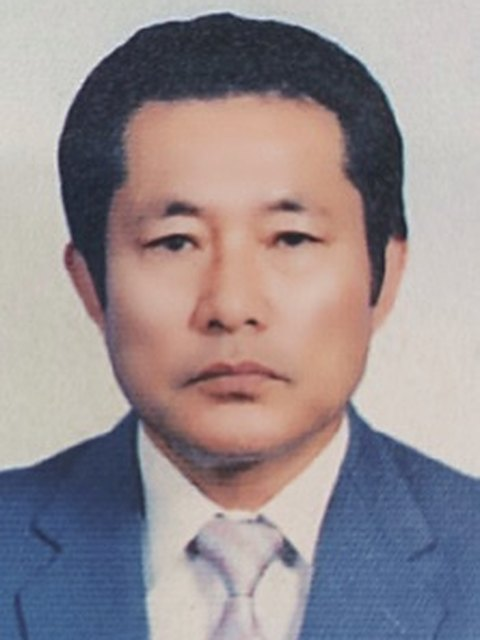
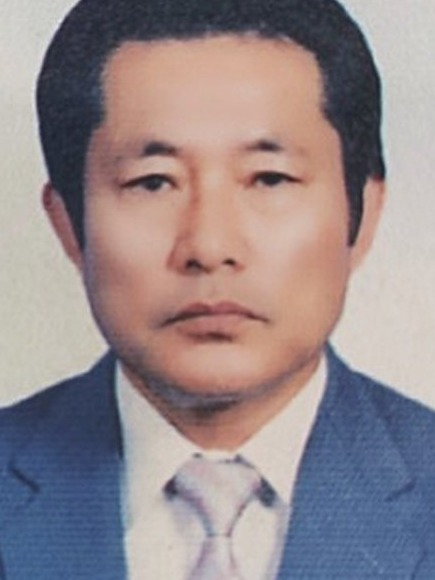
1st-hgkim-01 프로필 사진 크롭 + 프레임 180px 확대
- public/presidents/01.jpg: 상단 흰 여백(약 60px) 제거 크롭 (480×640 → 435×580, 3:4 유지)
- 프레임 width 150px → 180px, min-width 동일 조정
- .ygcl-intro min-height calc(150px*4/3) → calc(180px*4/3)
- object-position: center 60% → center top (의미 있는 값으로)
- CACHE_VER v44 → v45
- DB 마이그레이션 v12 추가

diff --git a/lib/db.ts b/lib/db.ts
@@ -5429,6 +5429,11 @@ async function init(client: Client) {
     await refreshArticlesFromFiles(client, [["yeongi", "1st-hgkim-01"]]);
     await markMigration(client, "yeongi-hgkim-profile-align-v11");
   }
+  // 1st-hgkim-01 프로필 프레임 180px 확대 + 사진 상단 흰 여백 제거 크롭
+  if (!(await hasMigration(client, "yeongi-hgkim-profile-align-v12"))) {
+    await refreshArticlesFromFiles(client, [["yeongi", "1st-hgkim-01"]]);
+    await markMigration(client, "yeongi-hgkim-profile-align-v12");
+  }
 
   // 시드: 글 (content/articles/<chapter>/*.md → DB 업서트)
   // 한 번 시드된 후에는 cold-start 마다 다시 디스크 스캔하지 않도록 가드

diff --git a/lib/articles-db.ts b/lib/articles-db.ts
@@ -13,7 +13,7 @@ import {
 // 길게 잡아도 편집 반영은 즉시. 봇 크롤링 등으로 인한 전체 글 풀스캔 재조회 폭증을 막는다.
 const CACHE_TTL = 1800;
 // 데이터 캐시는 재배포로 지워지지 않는다. 내용을 일괄로 고친 뒤에는 이 값을 올린다.
-const CACHE_VER = "v44";
+const CACHE_VER = "v45";
 
 export type Visibility = "public" | "members-only";
 

diff --git a/content/articles/yeongi/1st-hgkim-01.md b/content/articles/yeongi/1st-hgkim-01.md
@@ -38,8 +38,8 @@ html[data-theme="dark"] {
 }
 .ygcl-photo-frame {
   display: grid;
-  width: 150px;
-  min-width: 150px;
+  width: 180px;
+  min-width: 180px;
   aspect-ratio: 3/4;
   border-radius: 10px;
   overflow: hidden;
@@ -52,7 +52,7 @@ html[data-theme="dark"] {
   width: 100%;
   min-height: 0;
   object-fit: cover;
-  object-position: center 60%;
+  object-position: center top;
 }
 @media (max-width: 520px) {
   .ygcl-profile-wrap { flex-direction: column; align-items: center; }
@@ -69,7 +69,7 @@ html[data-theme="dark"] {
   line-height: 1.9;
   color: var(--ygcl-fg);
   flex: 1;
-  min-height: calc(150px * 4 / 3);
+  min-height: calc(180px * 4 / 3);
   box-sizing: border-box;
 }
 .ygcl-intro strong { color: var(--ygcl-green); }
